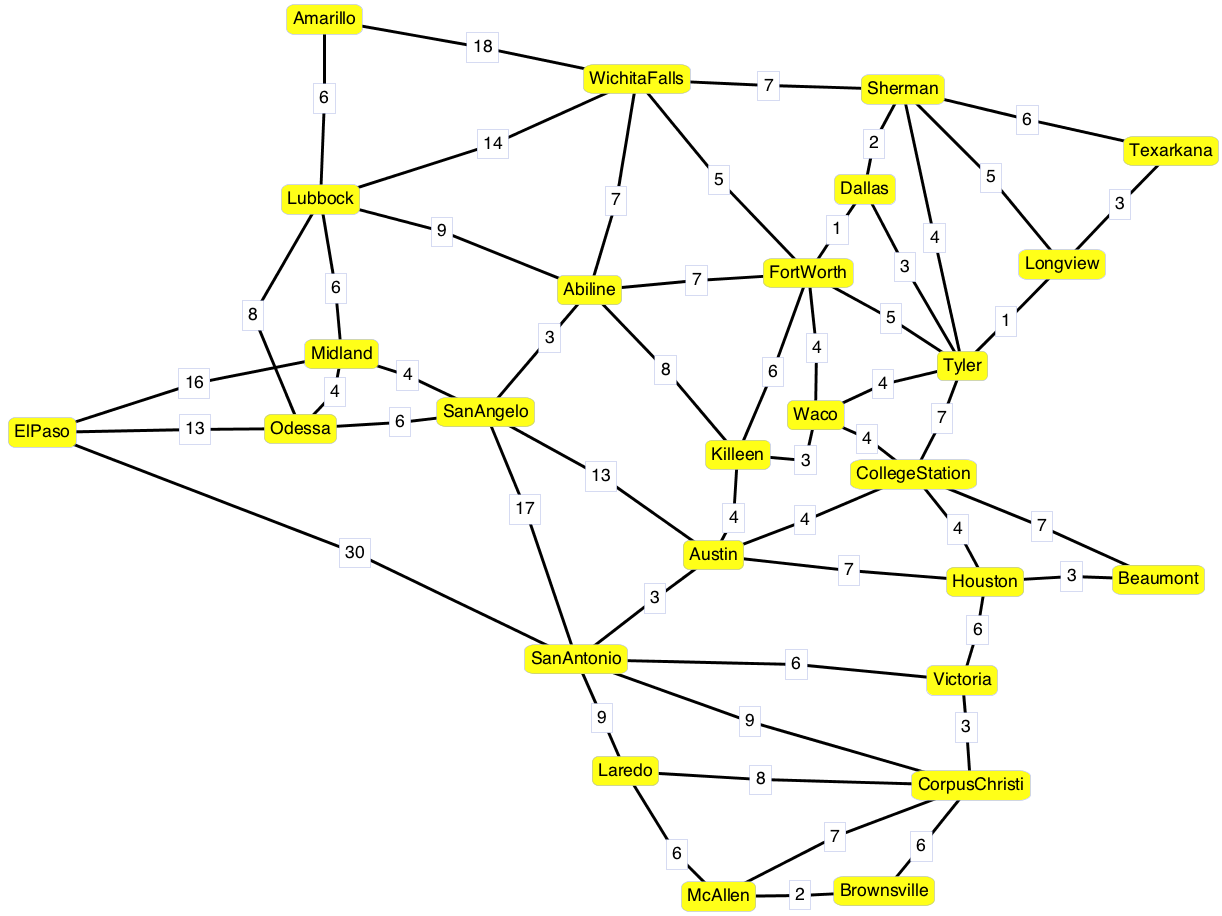
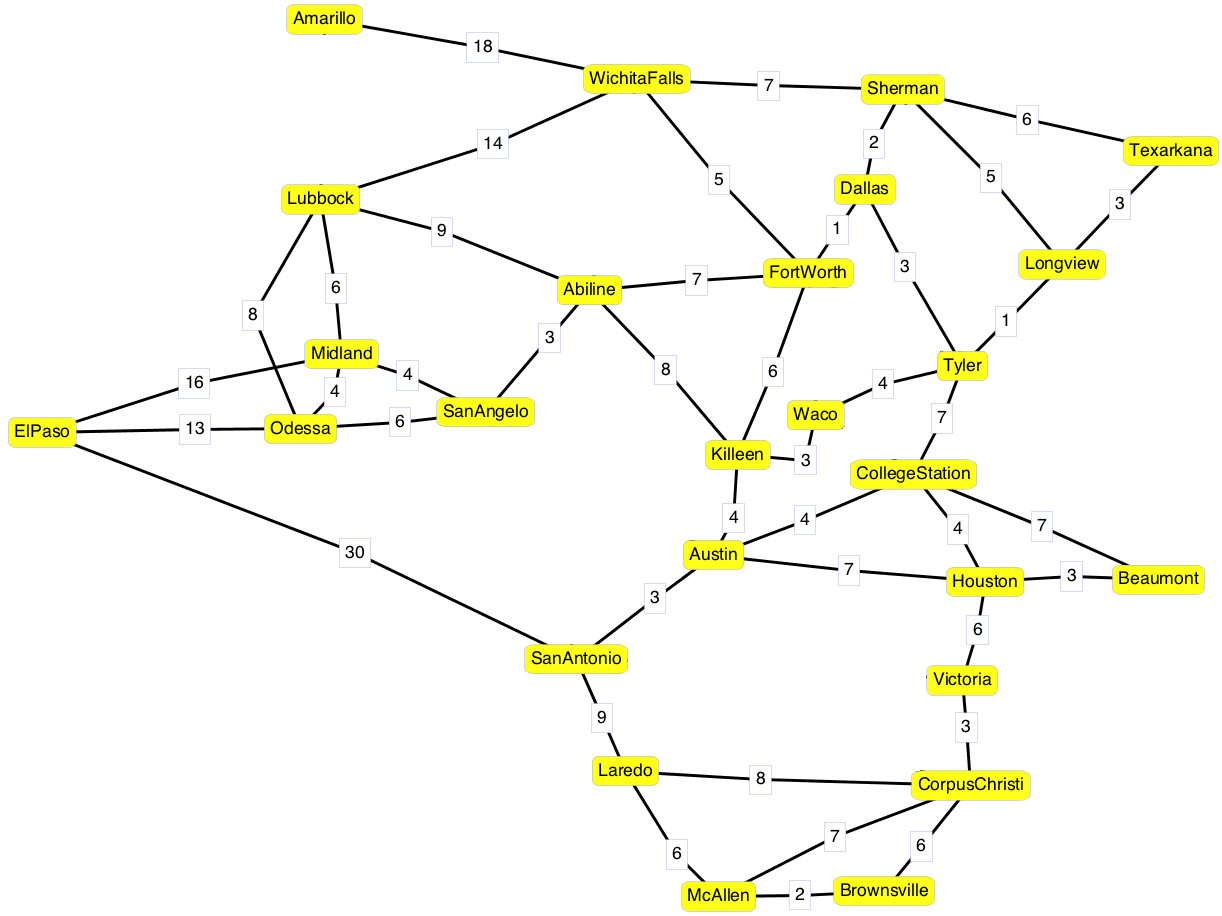
Updated data to reflect assumption of max. 4 roads/city

diff --git a/README.md b/README.md
@@ -17,17 +17,13 @@ Example cities input-file:
       WichitaFalls	Sherman	7
       Dallas	FortWorth	1
       WichitaFalls	FortWorth	5
-      WichitaFalls	Abiline	7
       Abiline	FortWorth	7
       Dallas	Sherman	2
-      Tyler	Sherman	4
-      Tyler	FortWorth	5
       Longview	Sherman	5
       Dallas	Tyler	3
       Odessa	Midland	4
       Lubbock	Midland	6
       Lubbock	Abiline	9
-      Lubbock	Amarillo	6
       Lubbock	Odessa	8
       Lubbock	WichitaFalls	14
       Amarillo	WichitaFalls	18
@@ -35,10 +31,8 @@ Example cities input-file:
       ElPaso	Midland	16
       ElPaso	SanAntonio	30
       SanAngelo	SanAntonio	17
-      SanAngelo	Austin	13
       Waco	Killeen	3
       Austin	Killeen	4
-      FortWorth	Waco	4
       FortWorth	Killeen	6
       Abiline	Killeen	8
       Waco	Tyler	4
@@ -46,14 +40,12 @@ Example cities input-file:
       McAllen	Laredo	6
       Austin	SanAntonio	3
       Laredo	SanAntonio	9
-      Victoria	SanAntonio	6
       SanAngelo	Abiline	3
       SanAngelo	Odessa	6
       SanAngelo	Midland	4
       Victoria	CorpusChristi	3
       McAllen	CorpusChristi	7
       Laredo	CorpusChristi	8
-      SanAntonio	CorpusChristi	9
       Brownsville	CorpusChristi	6
       Houston	Beaumont	3
       CollegeStation	Beaumont	7
@@ -62,7 +54,6 @@ Example cities input-file:
       Tyler	CollegeStation	7
       Houston	Victoria	6
       Houston	Austin	7
-      Waco	CollegeStation	4
       trip   Houston  Austin
       trip   Houston  McAllen
       trip   Dallas  ElPaso
